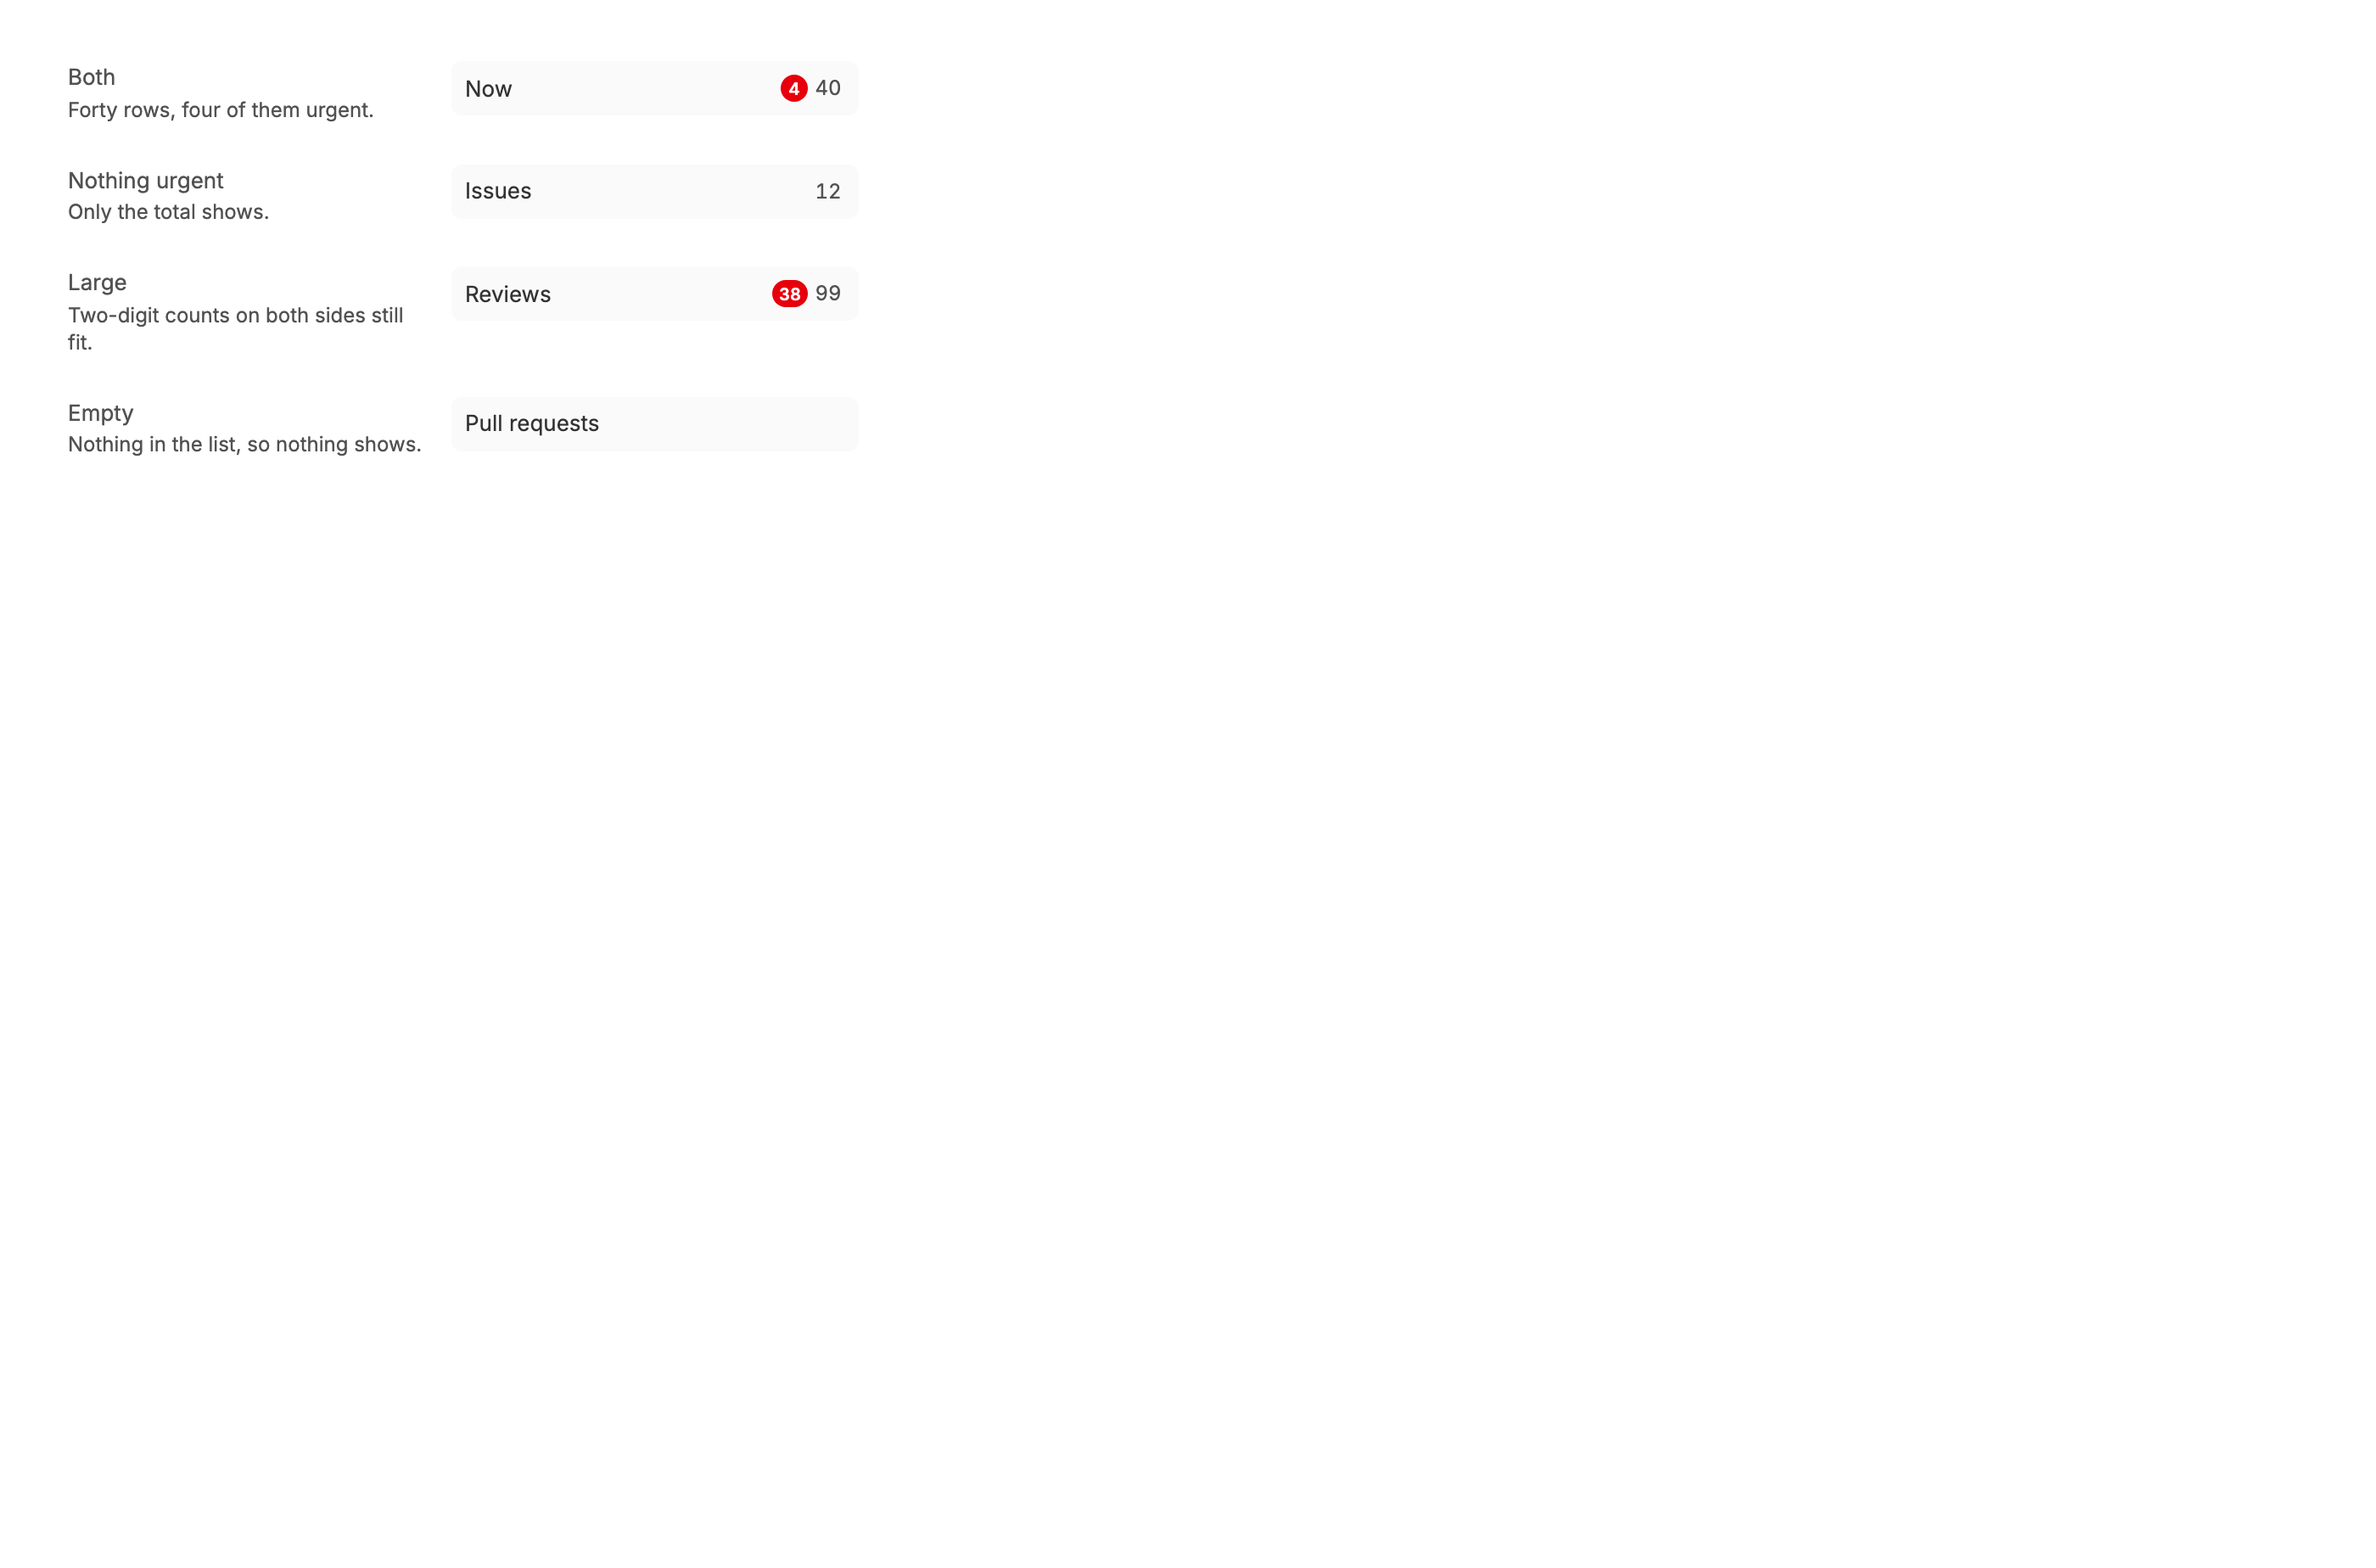
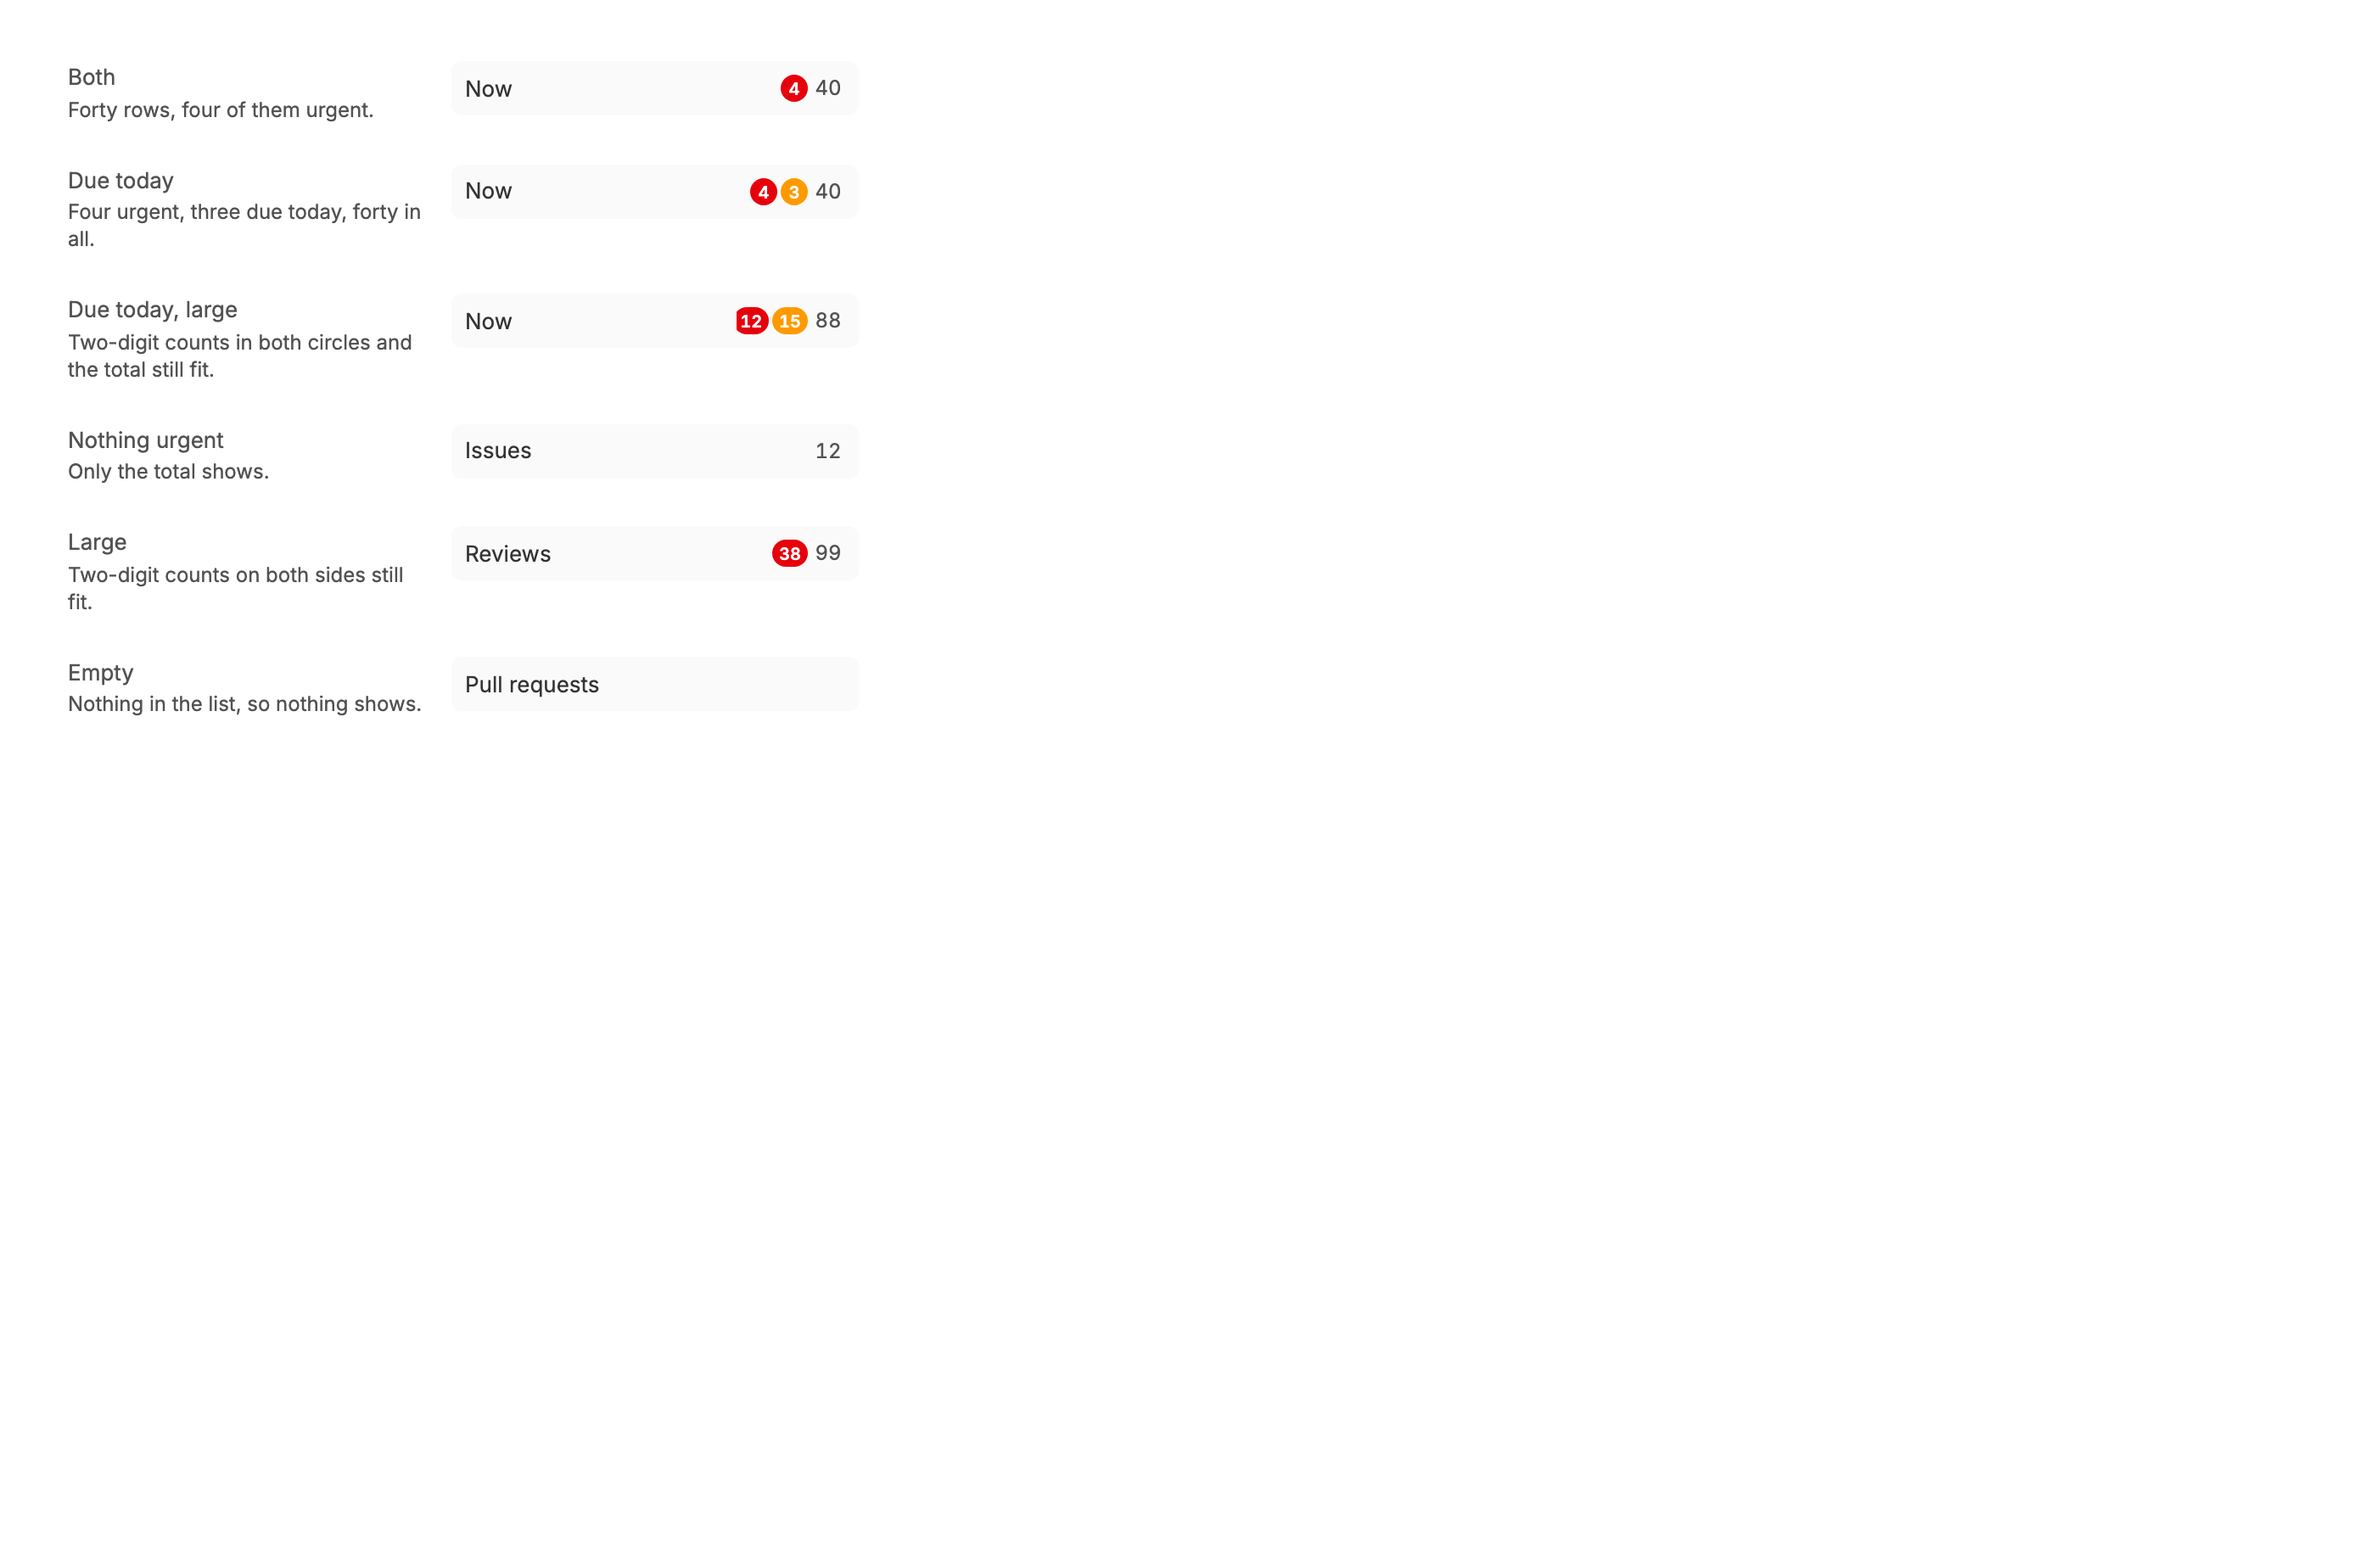
4299515 Count tasks due today beside Now in the sidebar
danielbachhuber/bb-plugins@429951574ff21e1d81c6d20f9f458e3130374288

Captured with uncommitted changes in the bb-plugins checkout.

diff --git a/component-library/README.md b/component-library/README.md
@@ -18,7 +18,7 @@ Segmented picks one of a few choices, such as a period; one is always on. Segmen
 
 ### States
 
-The counts beside a page's name in the sidebar: the rows that need you most in a red circle, then every row.
+The counts beside a page's name in the sidebar: the rows that need you most in a red circle, those due today in an amber one when the page counts them, then every row.
 
 ![States](sidebar-count--states.png)
 
